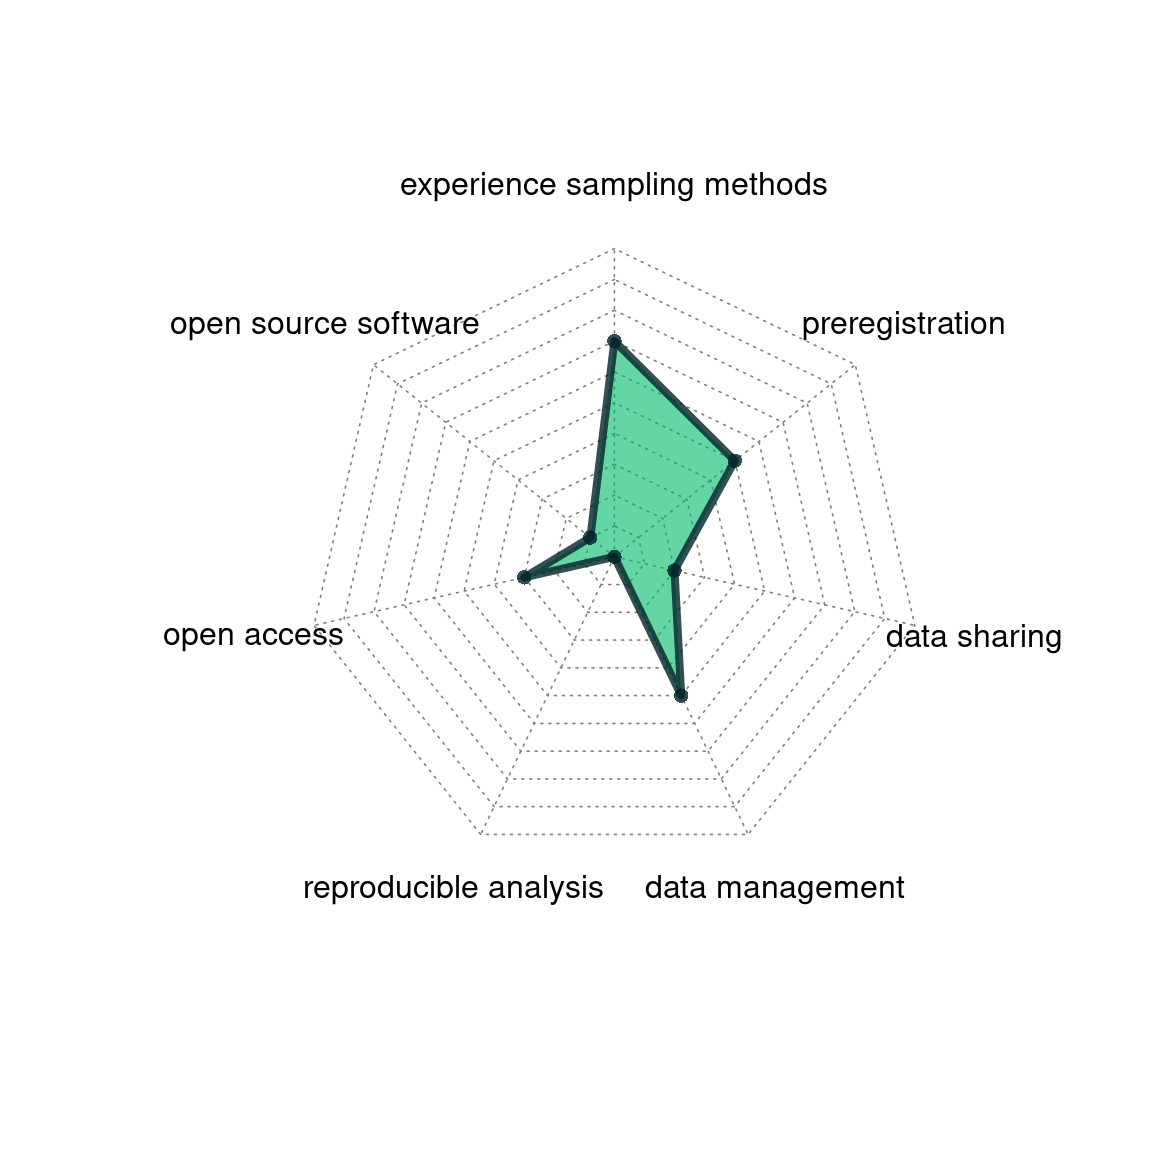
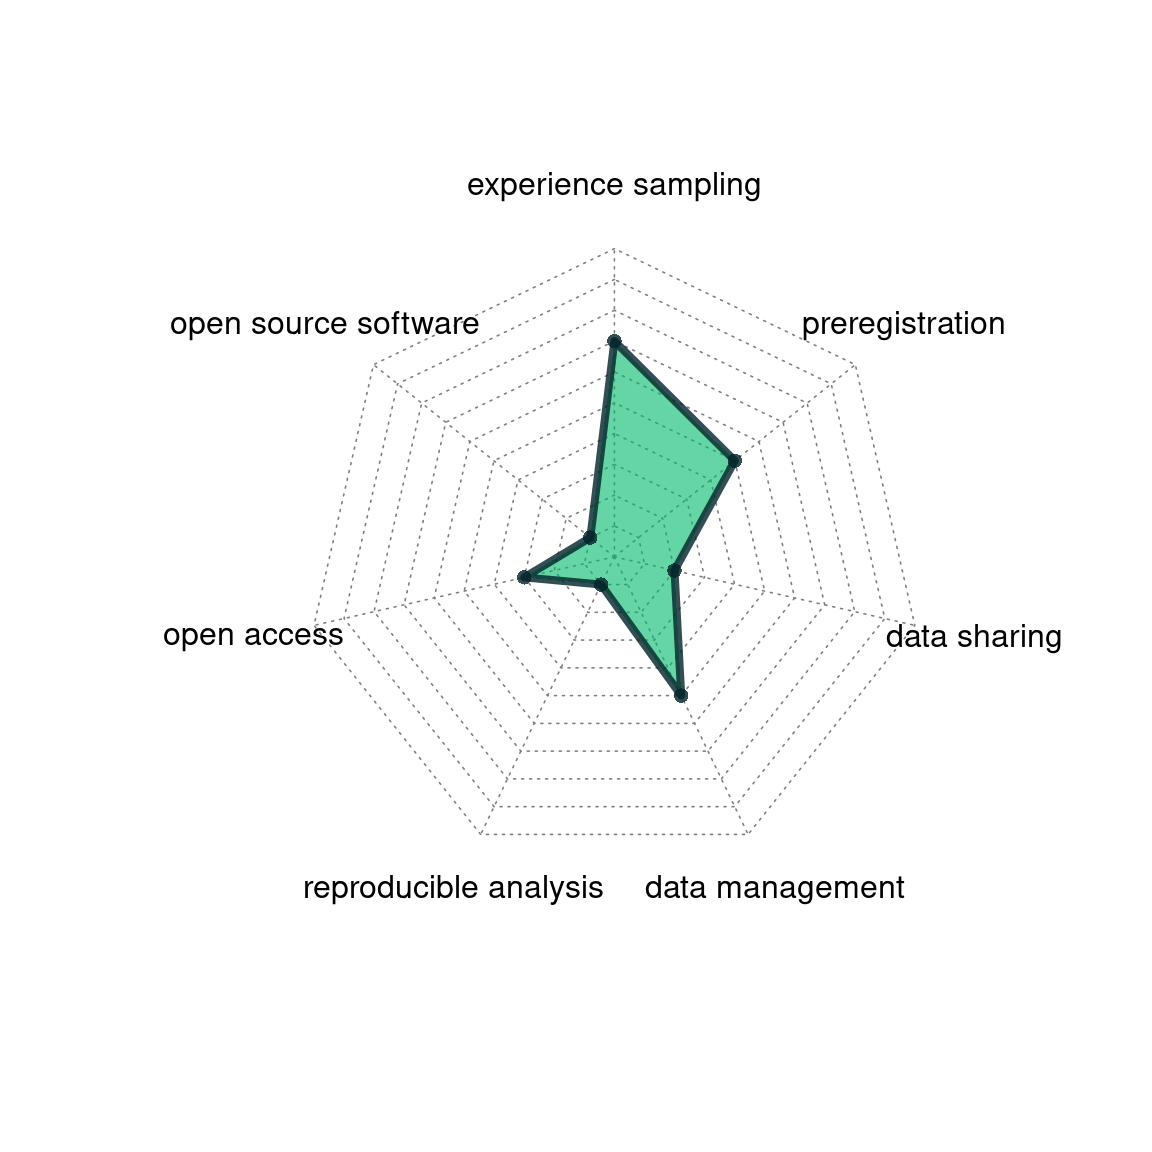
shorten experience sampling category

Changed region(s): [[0.3438, 0.1562, 0.7188, 0.1875], [0.4688, 0.4688, 0.5938, 0.5938]]

diff --git a/content/post/buelow/index.html b/content/post/buelow/index.html
@@ -3,7 +3,7 @@ title: "OSCR Member: Anne Bülow"
 date: 2021-02-09
 slug: "buelow"
 categories: ["people"]
-tags: ["data management", "preregistration", "experience sampling methods", "school-essb"] # top 3 categories + unique + school
+tags: ["data management", "preregistration", "experience sampling", "school-essb"] # top 3 categories + unique + school
 coverImage: /images/people.svg
 thumbnailImage: /images/Buelow.jpg
 thumbnailImagePosition: left
@@ -18,7 +18,6 @@ editor_options:
   chunk_output_type: console
 ---
 
-<script src="{{< blogdown/postref >}}index_files/header-attrs/header-attrs.js"></script>
 
 
 <div id="description" class="section level1">
